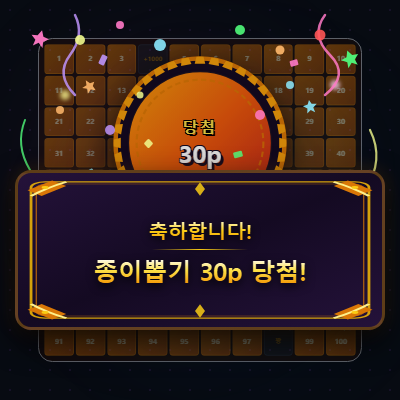
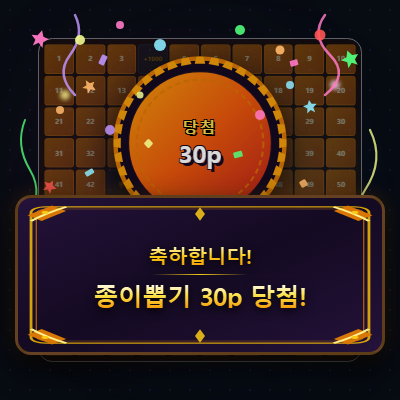
style: 종이뽑기 당첨 축하 메시지 카드를 하향 조정하여 딱지 텍스트 가림 문제 해결 및 이미지 재캡처 푸시

Changed region(s): [[0.03, 0.39, 0.96, 0.9]]

diff --git a/src/components/game/RetroDrawGame.tsx b/src/components/game/RetroDrawGame.tsx
@@ -455,7 +455,7 @@ export default function RetroDrawGame({
             <div>
               <span className="text-[10px] text-gray-500 font-bold mb-1 block">자동 첨부 이미지</span>
               <div className="w-full h-28 rounded-xl overflow-hidden border border-gray-800 bg-gray-950 flex items-center justify-center">
-                <img src={`/images/playground/retrodraw_win_banner_${result?.amount ?? 10}.png?v=3`} alt="인증 배너" className="max-w-full max-h-full object-contain" />
+                <img src={`/images/playground/retrodraw_win_banner_${result?.amount ?? 10}.png?v=4`} alt="인증 배너" className="max-w-full max-h-full object-contain" />
               </div>
             </div>
 
@@ -505,7 +505,7 @@ export default function RetroDrawGame({
         <div className="absolute inset-0 bg-black/80 backdrop-blur-sm rounded-3xl flex flex-col items-center justify-center p-6 z-30 animate-in fade-in duration-300">
           <div className="w-[300px] h-[300px] rounded-2xl overflow-hidden border border-gray-800 bg-gray-950 flex items-center justify-center shadow-2xl relative animate-in zoom-in duration-300">
             <img 
-              src={`/images/playground/retrodraw_win_banner_${result.amount}.png?v=3`} 
+              src={`/images/playground/retrodraw_win_banner_${result.amount}.png?v=4`} 
               alt="당첨 배너" 
               className="w-full h-full object-contain"
             />

diff --git a/app/render-banners/page.tsx b/app/render-banners/page.tsx
@@ -435,8 +435,8 @@ function RetroDrawBanner({ amount }: { amount: number }) {
         <div className="absolute z-25 top-[90px] left-[60px] w-2.5 h-2.5 bg-yellow-200 rounded-full blur-[2px] animate-pulse"></div>
         <div className="absolute z-25 top-[80px] right-[60px] w-2.5 h-2.5 bg-pink-200 rounded-full blur-[2px] animate-pulse"></div>
         
-        {/* 축하 배너 카드 (z-index: 30) */}
-        <BannerCard gameLabel="종이뽑기" rewardLabel={rewardLabel} className="z-[30] translate-y-[50px]" />
+        {/* 축하 배너 카드 (z-index: 30, 당첨 딱지가 가려지지 않도록 아래로 75px 하향 이동) */}
+        <BannerCard gameLabel="종이뽑기" rewardLabel={rewardLabel} className="z-[30] translate-y-[75px]" />
       </div>
     </div>
   );
